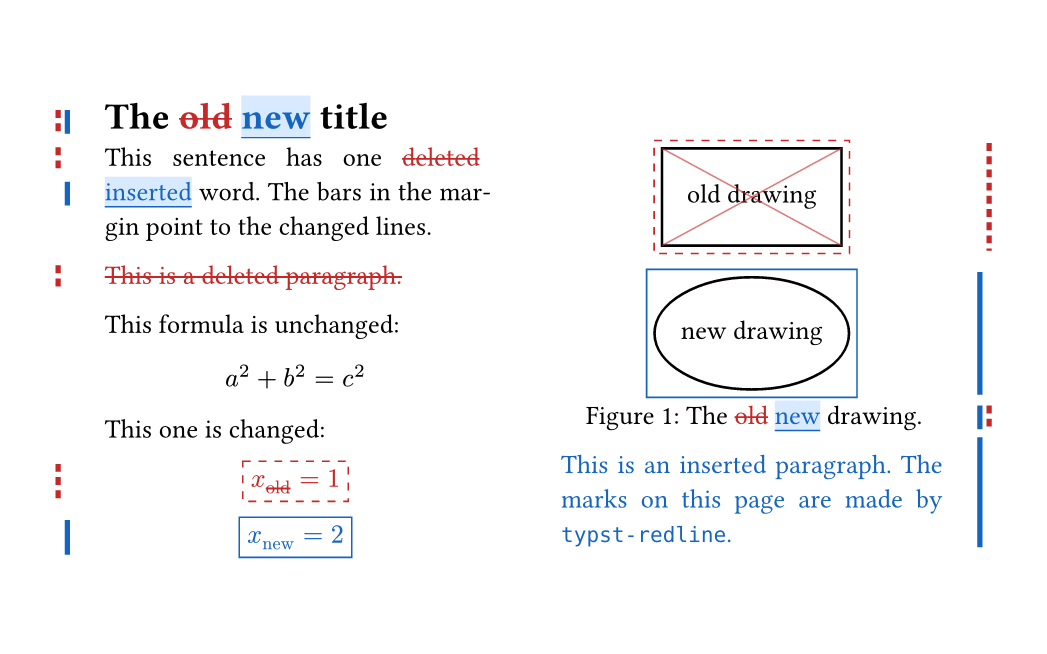
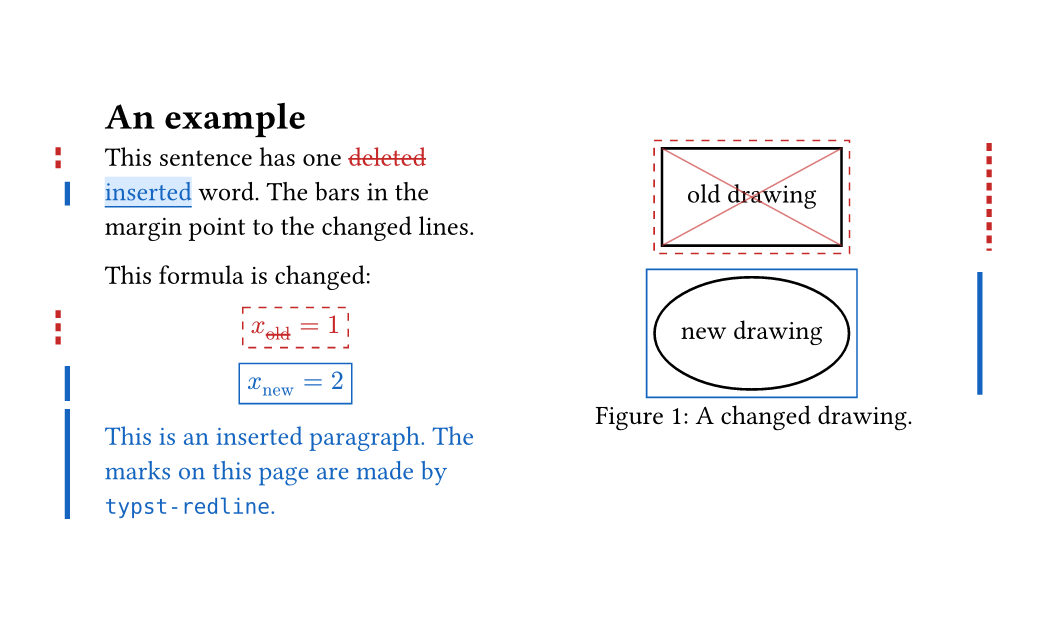
README: simplify the example, show the summary first and a side-by-side picture
The example is one page with a changed sentence, formula and drawing and
a new paragraph. The README shows its summary page, the marked page and
the same pages side by side; the separate slide example is removed.

diff --git a/README.md b/README.md
@@ -2,11 +2,17 @@
 
 `typst-redline` shows what changed between two versions of a [Typst](https://typst.app) document: a PDF of the new version with deleted text struck out and new text highlighted. It does for Typst what `latexdiff` does for LaTeX. AI agents wrote this tool.
 
-<img src="docs/example.png" width="560" alt="A page with a changed title, sentence, formula and drawing, each marked">
-
-The picture is page 2 of the PDF made from [docs/example/old.typ](docs/example/old.typ) and [docs/example/new.typ](docs/example/new.typ). Page 1 is a summary that explains the marks and lists the sections that changed and, when the two versions come from git, the commits between them:
+The two pictures are the PDF made from [docs/example/old.typ](docs/example/old.typ) and [docs/example/new.typ](docs/example/new.typ). Page 1 is a summary that explains the marks and lists the sections that changed. When the two versions come from git, it also lists the commits between them.
 
 <img src="docs/example-summary.png" width="560" alt="The summary page: a legend and the list of changed sections">
+
+Page 2 is the document with the changes marked:
+
+<img src="docs/example.png" width="560" alt="A page with a changed sentence, formula and drawing and a new paragraph, each marked">
+
+With `--layout side-by-side`, the old page is shown next to the new one instead:
+
+<img src="docs/example-side-by-side.png" width="800" alt="The old page with its deletions marked, next to the new page with its insertions marked">
 
 ## Install
 
@@ -52,15 +58,13 @@ Only the first and the last version are compared, so text that one commit added 
 
 ## Slides and side-by-side
 
-Deleted content takes room, so a full slide can overflow. `--layout side-by-side` puts each changed page of the old version next to the same page of the new version, and leaves out pages without changes. It works for any document and needs Typst 0.14 or later.
+`--layout side-by-side` puts each changed page of the old version next to the same page of the new version, as in the third picture above, and leaves out pages without changes. The first page of the PDF lists which pages are shown and how many were left out. It works for any document and needs Typst 0.14 or later.
 
 ```sh
 typst-redline talk.typ --since HEAD~1 --layout side-by-side
 ```
 
-<img src="docs/example-slides.png" width="800" alt="An old slide with deletions struck, next to the new slide with insertions highlighted">
-
-The picture is made from [docs/example-slides/old.typ](docs/example-slides/old.typ) and [docs/example-slides/new.typ](docs/example-slides/new.typ). The first page of that PDF lists which pages are shown and how many were left out.
+This is the layout to use for slides. In the default layout the deleted content is shown on the same page as the new content, so the page holds more than it was designed for; a slide has a fixed size, and a full one overflows. Side by side, each page holds only the content of its own version.
 
 ## Known problems
 
